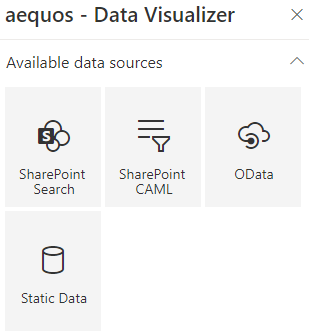
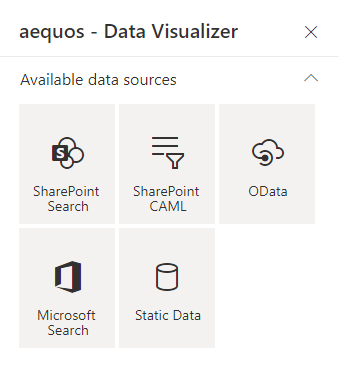
- Fixed wrong links + updated screenshots for the available data sources

diff --git a/docs/usage/data-filters/index.md b/docs/usage/data-filters/index.md
@@ -61,7 +61,7 @@ The available filter templates are as follow:
 
 The taxonomy picker template allows you to filter data using the SharePoint Term Store using your own information architecture.
 
-!["Taxonomy picker overview"](../../../assets/webparts/data_filters/templates/taxonomy_picker_overview.png){: .center} 
+!["Taxonomy picker overview"](../../assets/webparts/data_filters/templates/taxonomy_picker_overview.png){: .center} 
 
 ## Configure the taxonomy picker
 
@@ -69,17 +69,17 @@ To configure the taxonomyp picker, follow these steps:
 
 1. From the Data Filter Web Part **'Edit'** button in the Web Part property pane, select the _Taxonomy picker_ template from the dropdown list and click on the tag icon next to it to view setings:
 
-    !["Taxonomy picker configuration"](../../../assets/webparts/data_filters/templates/taxonomy_picker_configuration1.png){: .center} 
+    !["Taxonomy picker configuration"](../../assets/webparts/data_filters/templates/taxonomy_picker_configuration1.png){: .center} 
 
 1. Select anchor terms or term sets you want to display as filters for users. They will be displayed as root elements for the filter name in the Web Part. You have here the flexibility to mix term sets from different term groups or anchor terms from same or different term sets:
 
     **Example with term sets:**
 
-    !["Taxonomy picker - Term sets configuration"](../../../assets/webparts/data_filters/templates/taxonomy_picker_configuration2.png){: .center}
+    !["Taxonomy picker - Term sets configuration"](../../assets/webparts/data_filters/templates/taxonomy_picker_configuration2.png){: .center}
 
     **Example with anchor terms**
 
-    !["Taxonomy picker - Anchor terms configuration"](../../../assets/webparts/data_filters/templates/taxonomy_picker_configuration21.png){: .center} 
+    !["Taxonomy picker - Anchor terms configuration"](../../assets/webparts/data_filters/templates/taxonomy_picker_configuration21.png){: .center} 
 
     !!! note
 
@@ -89,13 +89,13 @@ To configure the taxonomyp picker, follow these steps:
 
 3. Configure behavior settings with the provided options:
 
-    !["Taxonomy picker - Anchor terms configuration"](../../../assets/webparts/data_filters/templates/taxonomy_picker_configuration4.png){: .center} 
+    !["Taxonomy picker - Anchor terms configuration"](../../assets/webparts/data_filters/templates/taxonomy_picker_configuration4.png){: .center} 
 
     | **Setting** | **Description** |
     |------------|-----------------|
-    | **Item selection behavior** | Determine the default selection behavior when a user select the value. This settings can also be overriden per value for more flexibility: <br><br> !["Taxonomy picker - Selection behavior"](../../../assets/webparts/data_filters/templates/taxonomy_picker_selection_behavior.png){: .center} |
-    | **Number of items per page** | Determine the number of items to show per taxonomy levels. An high value will have impact on performances. <br><br> !["Taxonomy picker - Selection behavior"](../../../assets/webparts/data_filters/templates/taxonomy_picker_paging.png){: .center} |
-    | **Display search box** | Determine if a search box should appear in the picker letting users search for values. When an user search for values, the scope is restricted to term sets or anchor terms configured as root and does not apply to the whole term store. Also, the search is performed **using the current UI language**. <br><br> !["Taxonomy picker - Selection behavior"](../../../assets/webparts/data_filters/templates/taxonomy_picker_search.png){: .center} |
+    | **Item selection behavior** | Determine the default selection behavior when a user select the value. This settings can also be overriden per value for more flexibility: <br><br> !["Taxonomy picker - Selection behavior"](../../assets/webparts/data_filters/templates/taxonomy_picker_selection_behavior.png){: .center} |
+    | **Number of items per page** | Determine the number of items to show per taxonomy levels. An high value will have impact on performances. <br><br> !["Taxonomy picker - Selection behavior"](../../assets/webparts/data_filters/templates/taxonomy_picker_paging.png){: .center} |
+    | **Display search box** | Determine if a search box should appear in the picker letting users search for values. When an user search for values, the scope is restricted to term sets or anchor terms configured as root and does not apply to the whole term store. Also, the search is performed **using the current UI language**. <br><br> !["Taxonomy picker - Selection behavior"](../../assets/webparts/data_filters/templates/taxonomy_picker_search.png){: .center} |
 
 ## <a name=filter-types>Filter types: 'Static' filter versus 'Refiner' filter</a>
 
